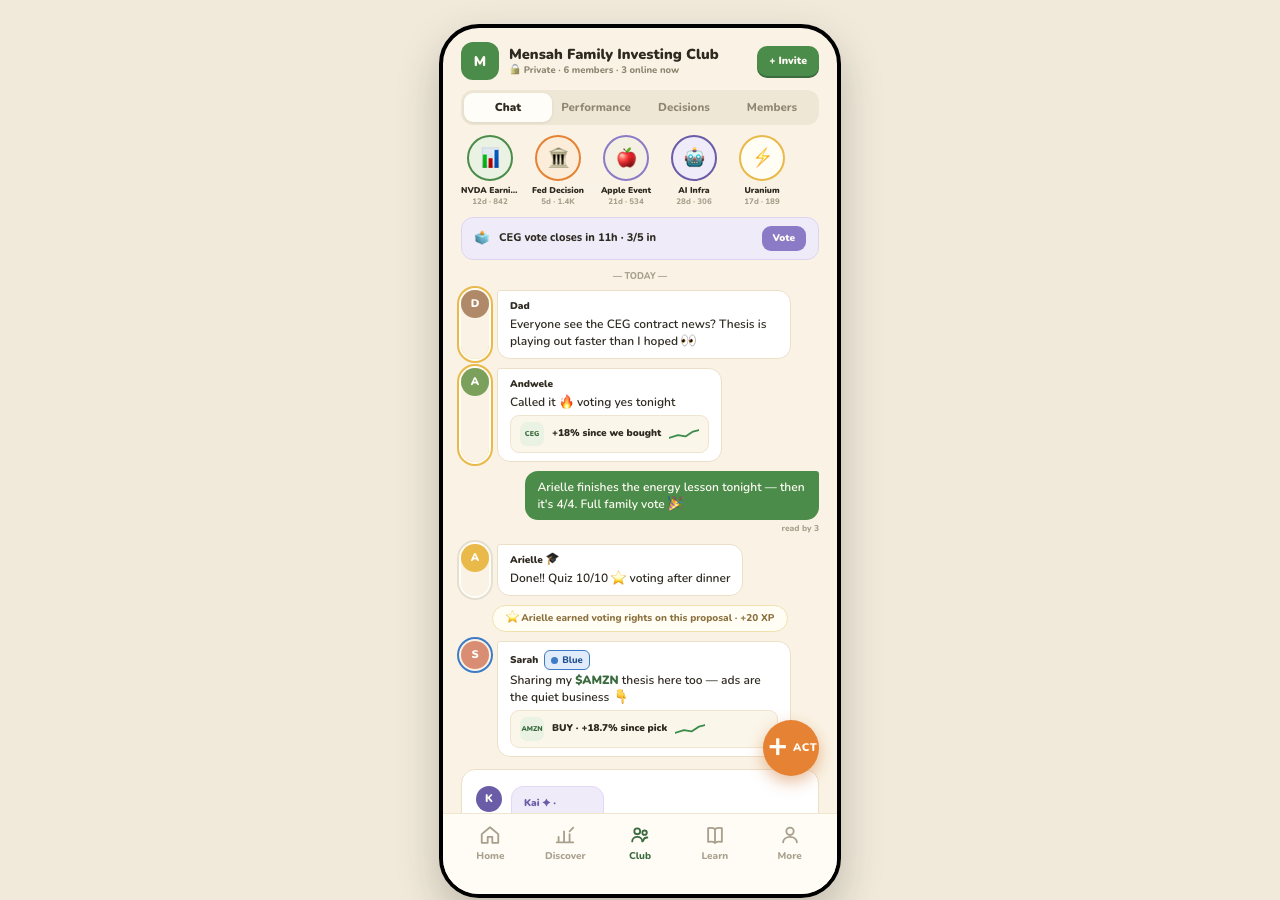
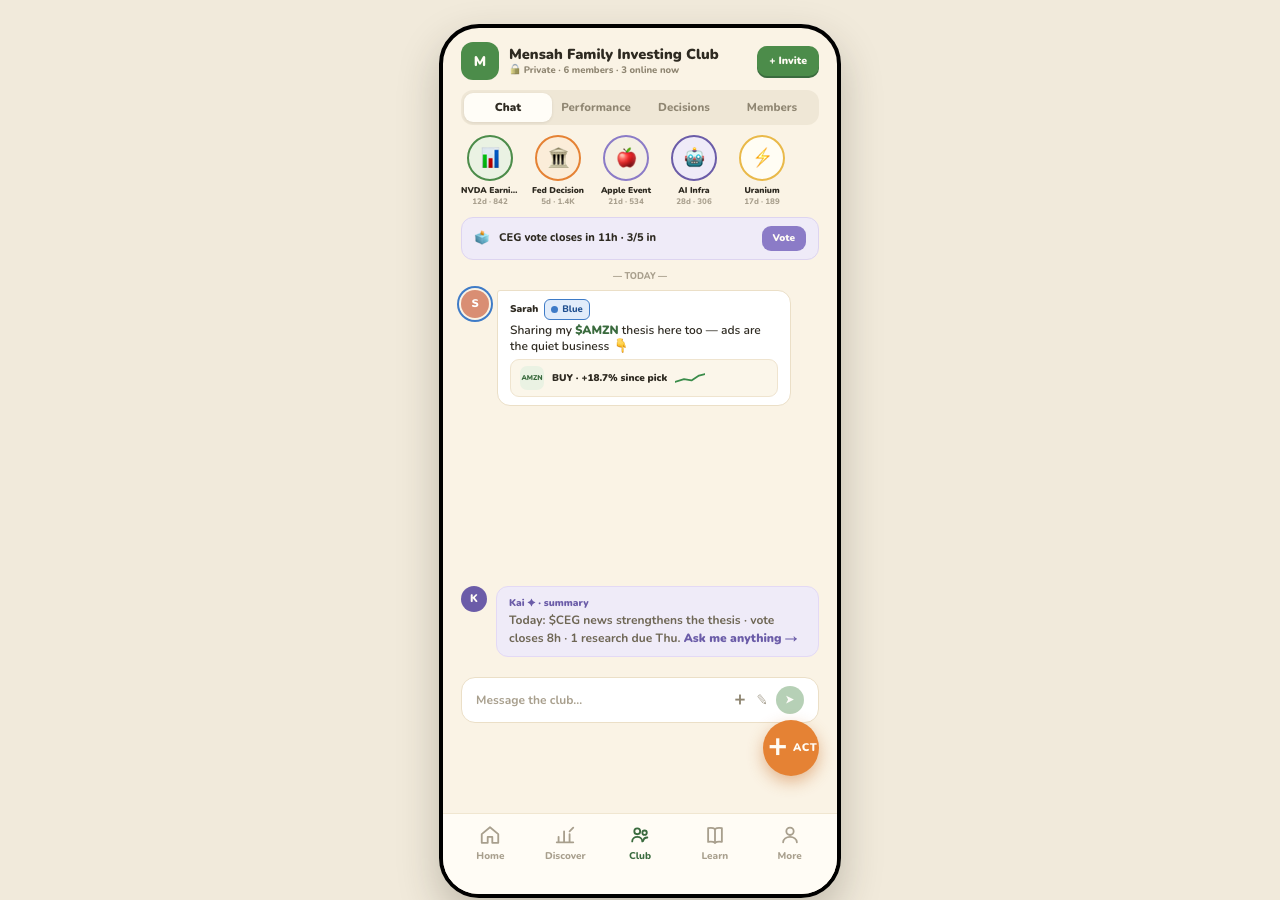
fix(club): no scripted messages in a real club chat
The Sarah/$AMZN artifact message was rendered unconditionally, so a signed-in club with an
empty thread still saw one invented message and no explanation. It is now demo-only, and a
real empty thread says 'No messages yet — say the first thing to your club.'

Changed region(s): [[0.3438, 0.3111, 0.6562, 0.9022]]

diff --git a/src/components/club/workspace/ChatPane.tsx b/src/components/club/workspace/ChatPane.tsx
@@ -85,6 +85,7 @@ export function ChatPane({ proposal, live }: { proposal: { id: string; title: st
             </div>
           )
         )}
+        {!live && (
         <div className="flex gap-2">
           <span className="w-7 h-7 rounded-full bg-coral text-white text-[11px] font-black flex items-center justify-center shrink-0 ring-2 ring-[#3E7BC7] ring-offset-2 ring-offset-paper">S</span>
           <div className="max-w-[82%]">
@@ -99,6 +100,10 @@ export function ChatPane({ proposal, live }: { proposal: { id: string; title: st
             </div>
           </div>
         </div>
+        )}
+        {live && msgs.length === 0 && (
+          <p className="py-10 text-center text-[12.5px] font-bold text-ink-3">No messages yet — say the first thing to your club.</p>
+        )}
       </div>
       {attach && (
         <div className="absolute inset-0 z-50 flex flex-col justify-end" role="dialog" aria-label="Add to your message">
